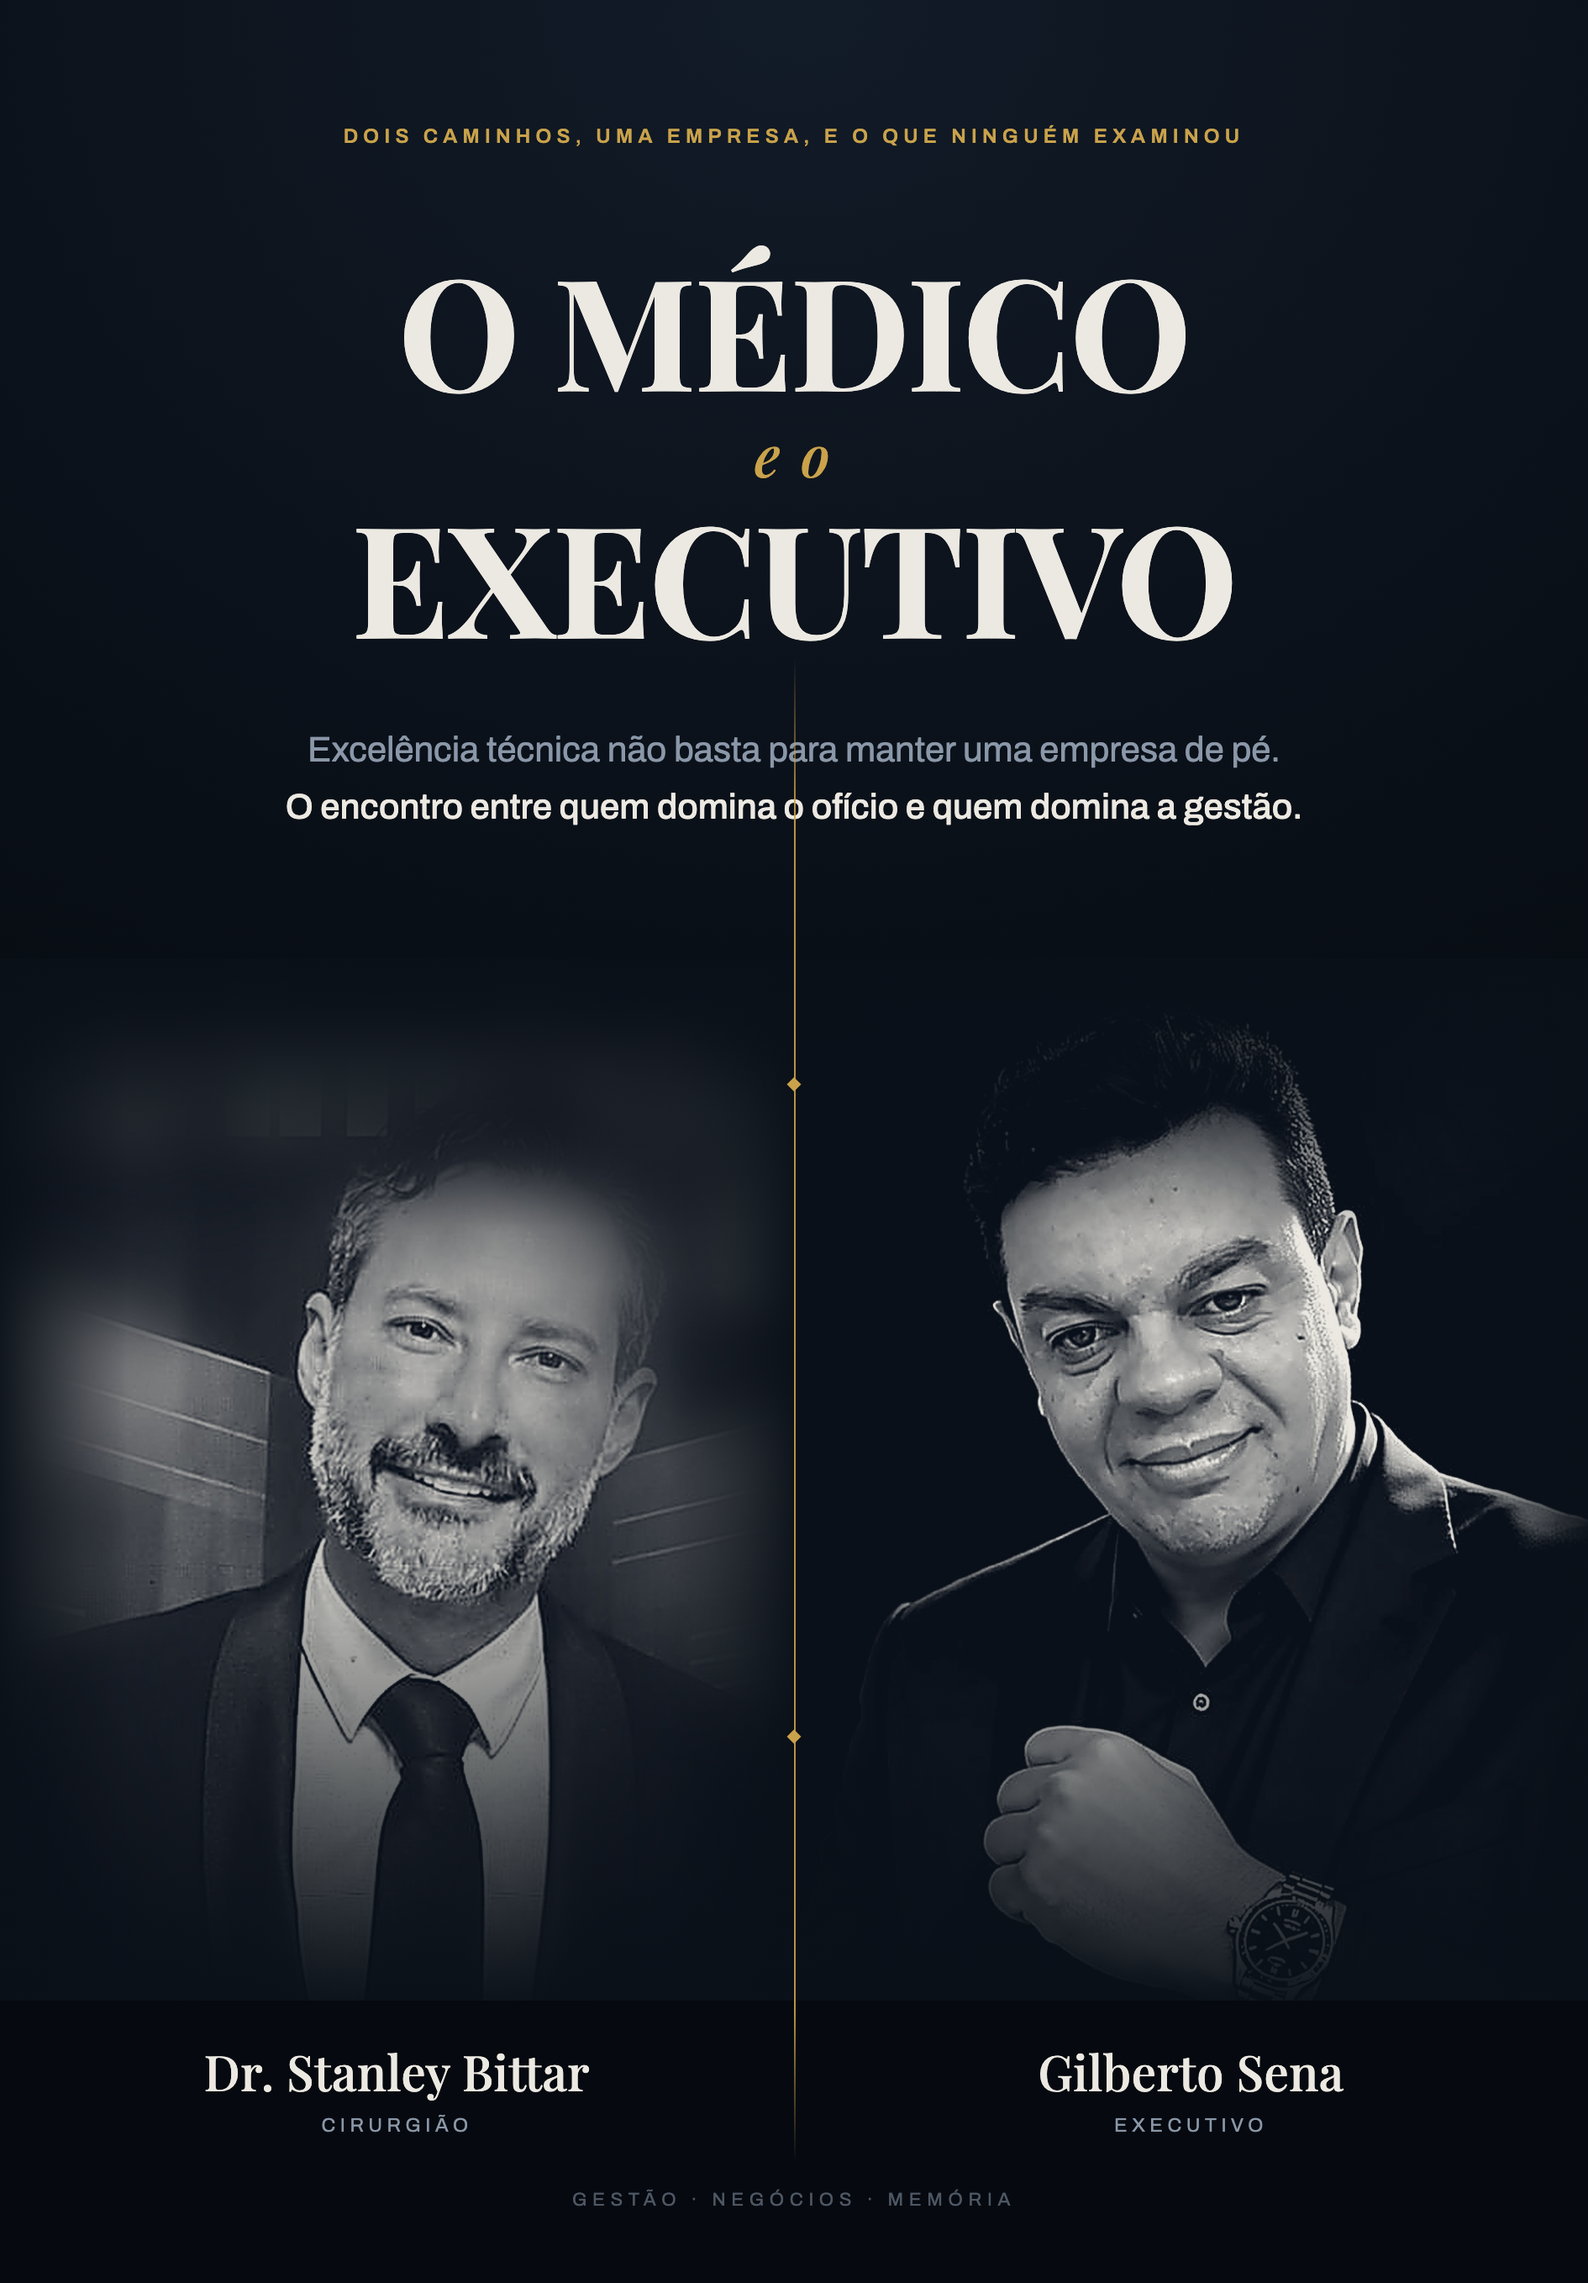
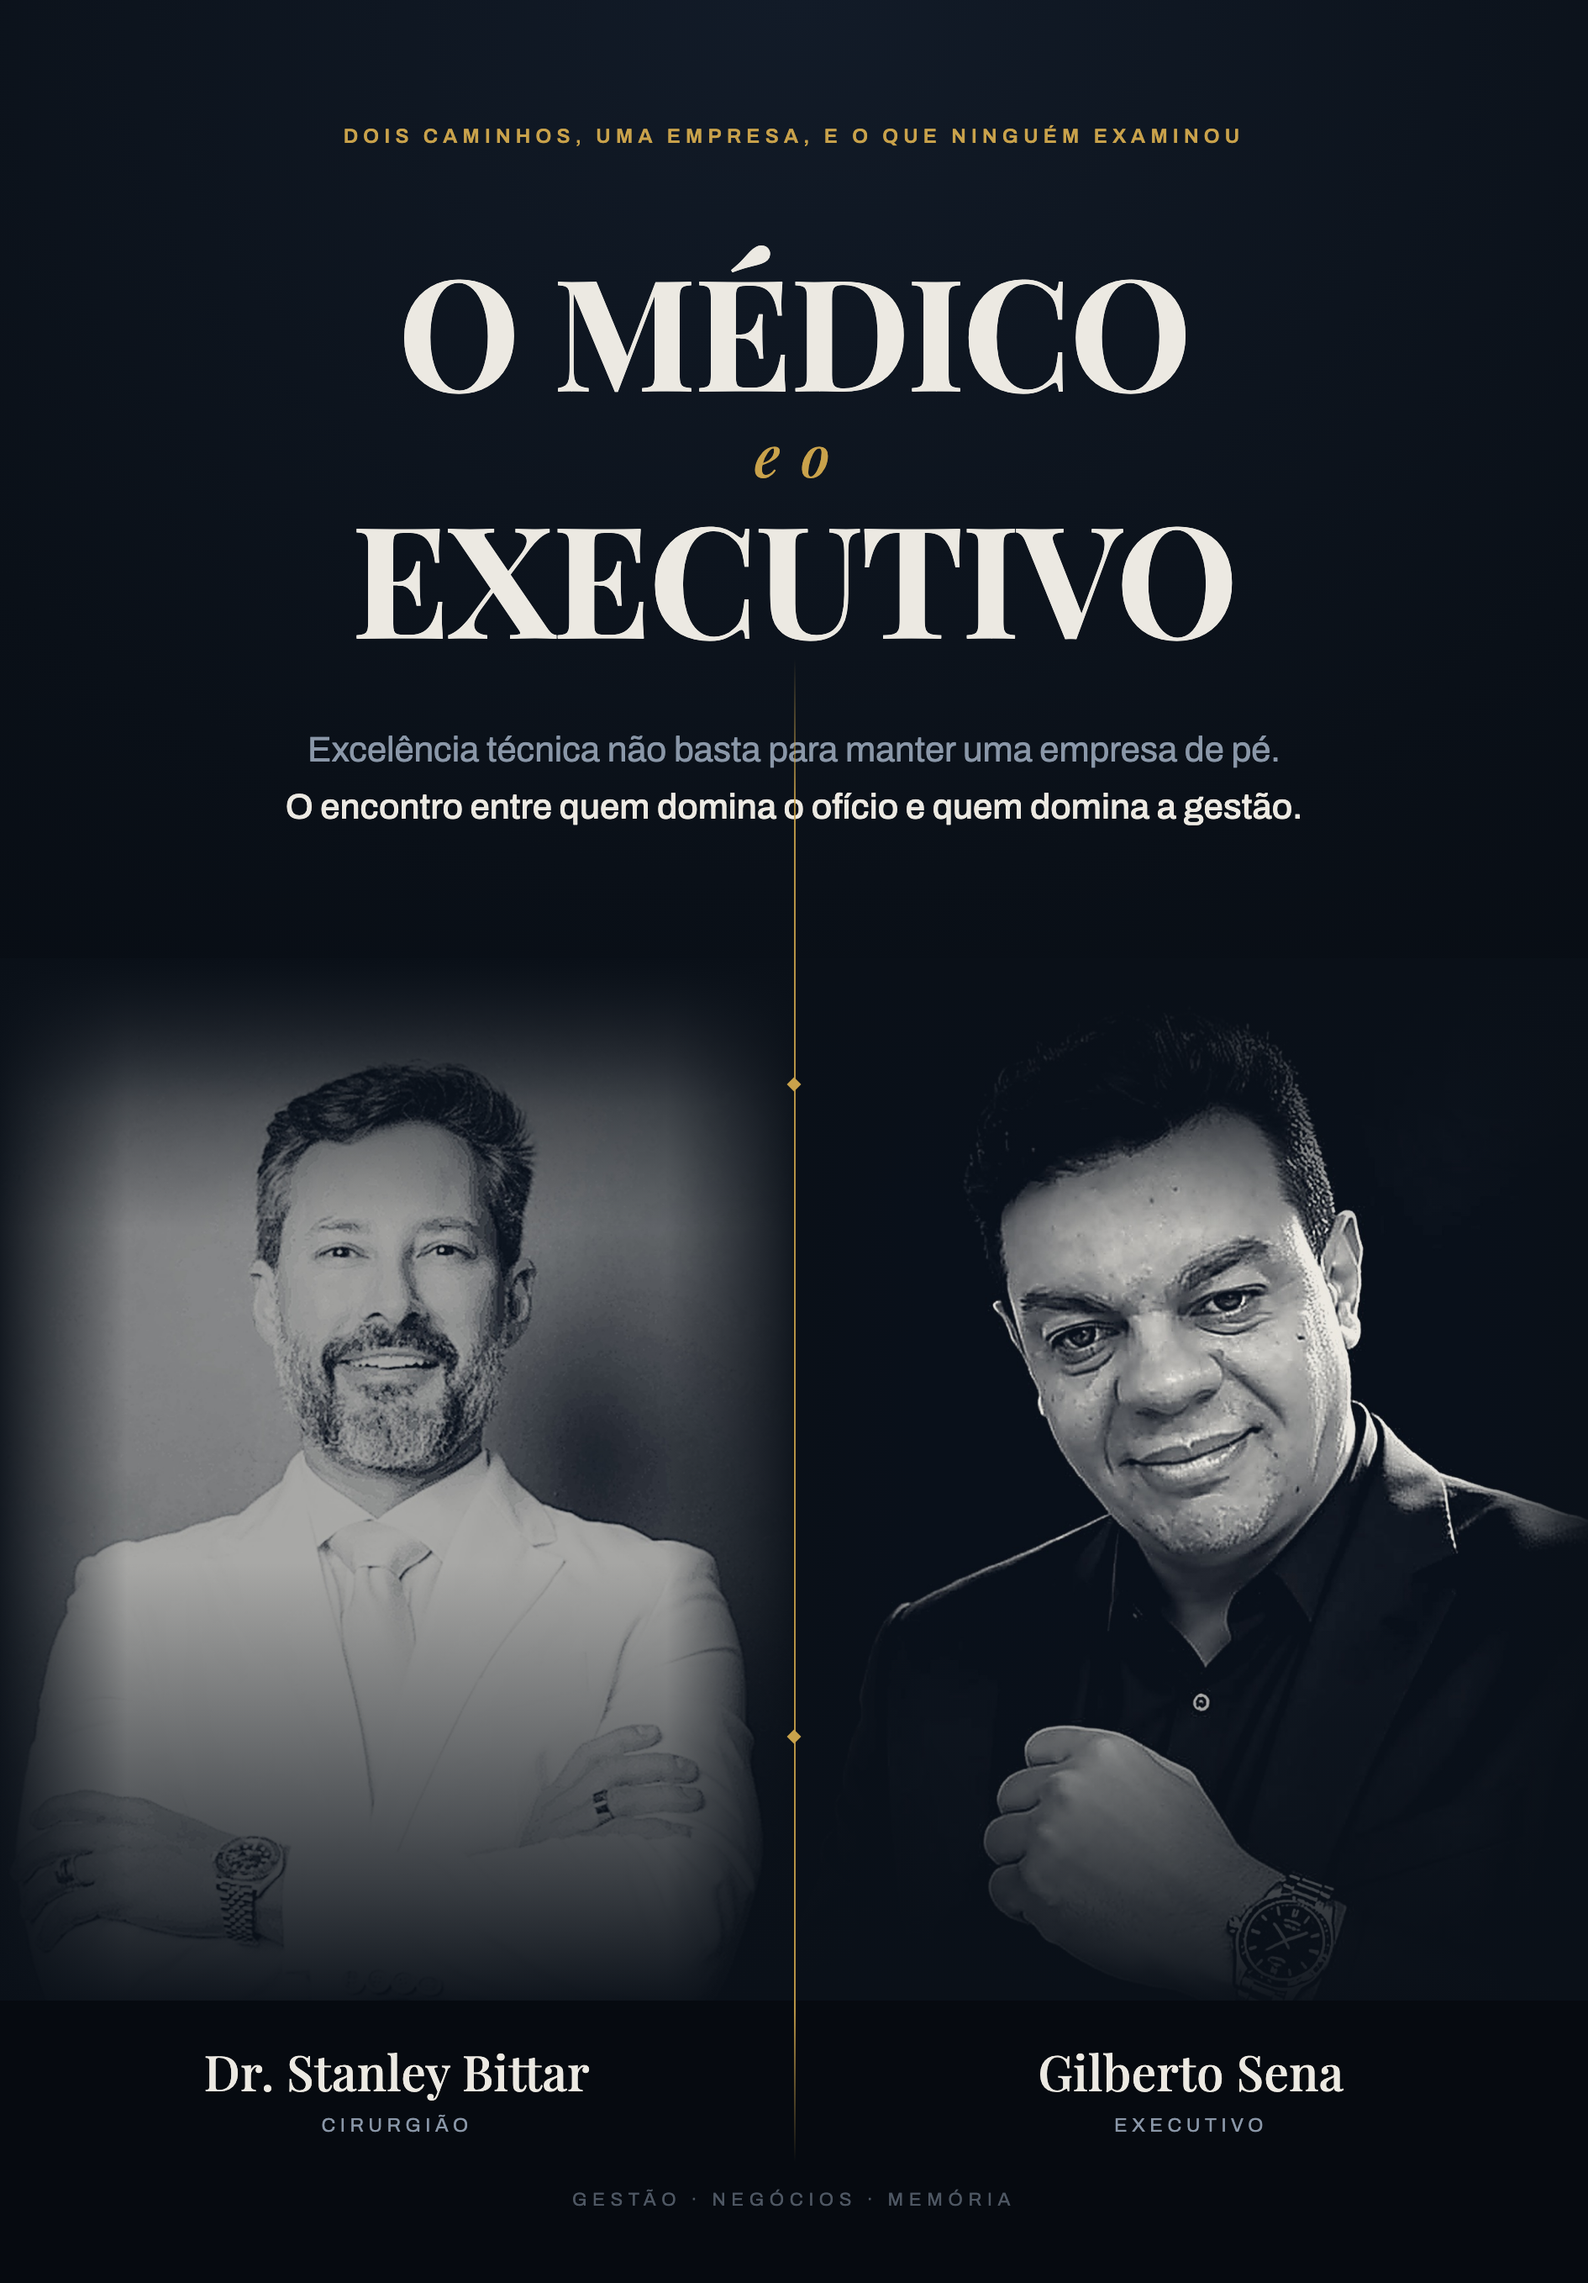
Capa do livro: foto nova do Stanley, e o terno branco virou o conceito
Ele mandou um retrato de estudio muito melhor que o print de story anterior.
Terno branco, bracos cruzados, fundo cinza-azulado, 768x903.

A roupa branca parecia problema e virou o melhor que essa capa podia ganhar:
o livro se chama O Medico e o Executivo, e agora a roupa nomeia os dois
mundos sem precisar de simbolo. A linha dourada do meio deixou de ser enfeite
e virou a fronteira entre eles.

O que segura a capa como peca unica e o rosto. Equilibrei o brilho das duas
peles em 13 pontos de diferenca, dentro da margem em que o olho nao percebe.

Tres defeitos corrigidos entre a primeira e a segunda tentativa, todos
registrados no README para nao se repetirem: a cabeca do Stanley saiu menor
que a do Gilberto, o rosto dele ficou escuro demais, e a vinheta estreita
criou um halo oval visivel em volta dele.

Registrado tambem que, com roupas de cores opostas, medir o brilho medio da
metade nao diz nada. Tem que medir o rosto.

Changed region(s): [[0.0, 0.4639, 0.4683, 0.866]]

diff --git a/livro-o-medico-e-o-executivo/capa/README.md b/livro-o-medico-e-o-executivo/capa/README.md
@@ -48,32 +48,51 @@ lugar do ensaio do `@eubernardocoelho`, que é tecnicamente muito melhor
 (4480 × 6720) mas tem terno cinza-claro e expressão severa: do lado do Bittar
 sorrindo de preto, as duas metades não pareciam a mesma peça.
 
-**Stanley:** foto que ele mandou em 09/out/2026, original em
-`fotos/bittar-original.jpg`. Terno preto, gravata, fundo de evento.
+**Stanley:** ★ **trocada em 13/out/2026.** Retrato de estúdio, **terno
+branco**, braços cruzados, fundo cinza-azulado. Original em
+`fotos/bittar-original-2.png`, 768 × 903. A anterior era print de story e
+está em `fotos/bittar-original.jpg`.
 
-**O que as duas têm em comum é o que faz a capa funcionar:** terno escuro,
-olhando para a câmera, expressão aberta. Em capa de dupla isso importa mais
-que a qualidade de cada foto isolada.
+### ★ O terno branco virou o conceito
+
+A foto nova trouxe um problema aparente e uma solução melhor. **Ele de
+branco, o Gilberto de preto.** Em capa de dupla isso costuma quebrar a
+unidade.
+
+Aqui faz o contrário: o livro se chama *O Médico e o Executivo*, e **a roupa
+passou a nomear os dois mundos sem precisar de símbolo nenhum.** A linha
+dourada do meio deixou de ser enfeite e virou a fronteira entre eles.
+
+**A unidade da capa vem do rosto, e é por isso que ela aguenta a roupa
+divergir.** Os dois retratos foram equilibrados para o brilho da pele bater:
+**medido em 13 pontos de diferença**, dentro da margem em que o olho não
+percebe.
 
 ### O tratamento, passo a passo
 
-1. Recorte 3:4, cabeça e busto.
+1. **Recorte 3:4 fechado**, cabeça e busto. ⚠ O enquadramento tem que deixar
+   as duas cabeças do mesmo tamanho. Na primeira tentativa de 13/out o
+   Stanley saiu menor e parecia mais distante que o Gilberto.
 2. Nitidez antes e depois da ampliação.
-3. **No caso do Stanley**, desfoque pesado fora de uma elipse no rosto: o
-   fundo do evento tinha um cartaz com texto grande, que lia como erro de
-   arte. Blur de 48 px resolve.
-4. Duotone azul-noite idêntico nas duas.
-5. Vinheta radial mais rampa escura no topo, para as duas nascerem do mesmo
-   preto.
-6. **Conferência de densidade:** o brilho médio das duas é medido e
-   equilibrado. É o que impede uma metade de parecer colada na outra.
+3. **Curva de tom antes do duotone:** levanta os meios para o rosto subir,
+   afunda as sombras para o fundo de estúdio escurecer, e **comprime a luz
+   alta para o terno branco não estourar.**
+4. Duotone azul-noite idêntico nas duas: sombra `(9,16,26)`, luz
+   `(169,169,167)`.
+5. **Vinheta larga** mais rampa escura no topo. ⚠ Vinheta estreita cria um
+   halo oval visível em volta da pessoa, e foi o que aconteceu na primeira
+   tentativa de 13/out.
+6. **Conferência de densidade:** medir o brilho **dos rostos**, não da
+   metade inteira. Com roupas de cores opostas, a média da metade não diz
+   nada. **Alvo: menos de 15 pontos de diferença entre as duas peles.**
 
 ---
 
 ## O único problema que sobrou: resolução
 
-⚠ **A foto do Stanley é um print de story, de 719 × 1280.** Depois do recorte
-sobram cerca de 460 × 613 px de imagem útil, ampliados para 1200 × 1600.
+⚠ **A foto nova do Stanley tem 768 × 903.** Melhor que o print de story
+anterior, que rendia 460 × 613 úteis, mas depois do recorte fechado sobram
+cerca de **534 × 712**, ampliados para 1200 × 1600.
 
 **Para tela isso passa. Para gráfica, não.** Numa capa impressa de 16 × 23 cm
 a 300 dpi, aquela metade vai sair visivelmente mole ao lado da outra, e o
